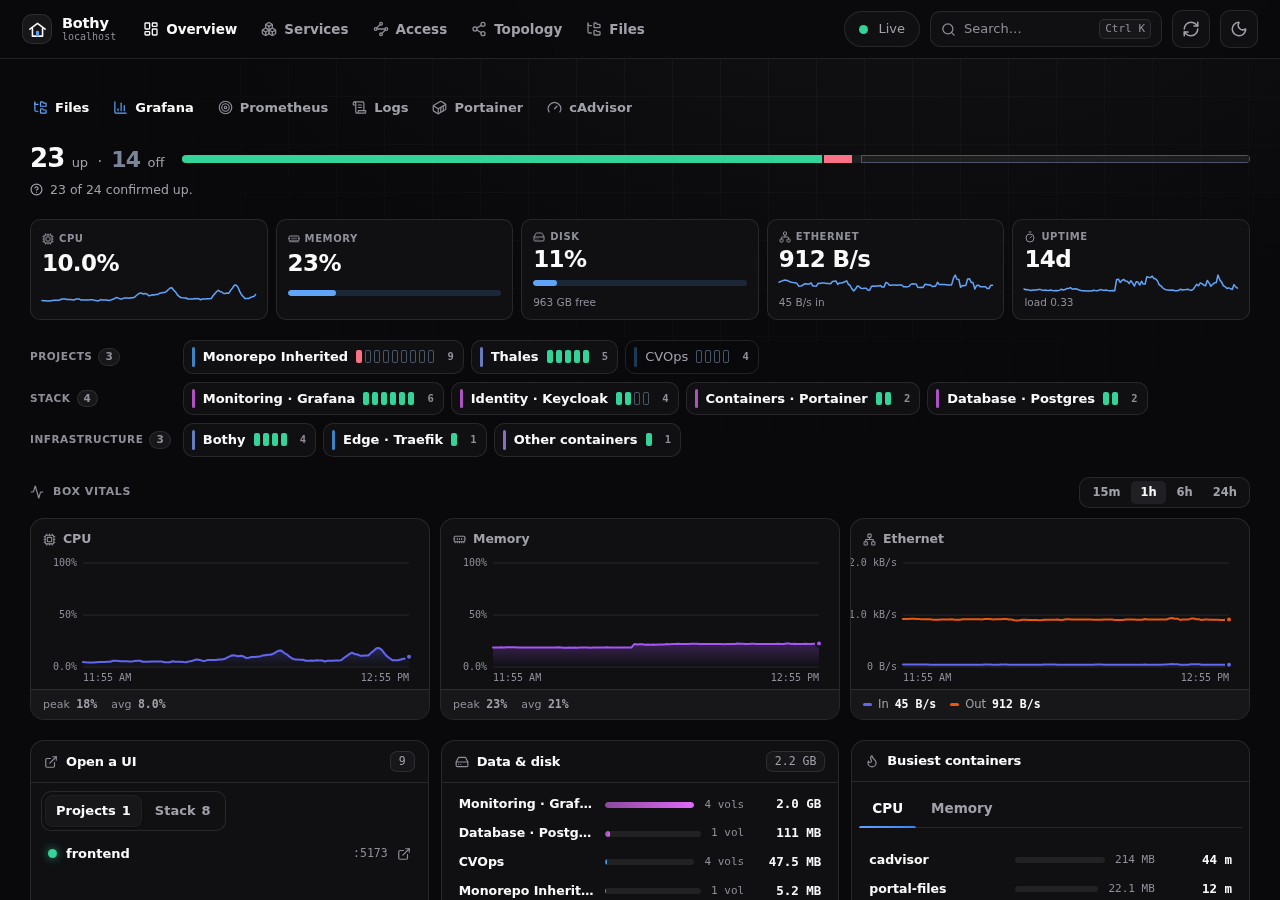
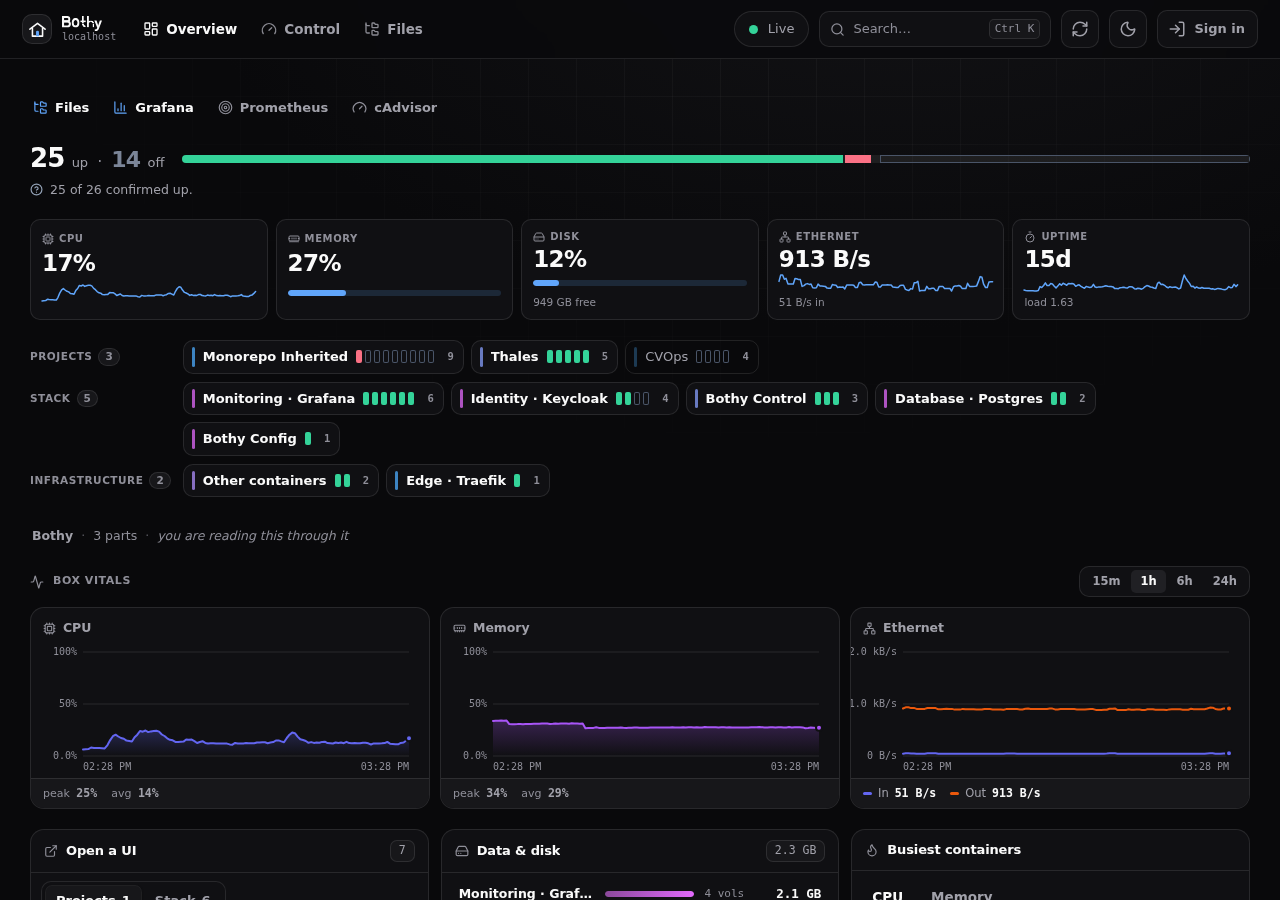
chore: delete redis and kafka, and the backup step that outlived portainer
Redis and Kafka survived yesterday's clear-out by one argument: they were
idle rather than REPLACED, so if either were ever wanted it would be wanted
as itself. That argument is what `git revert` is for. A compose file kept
on disk for a service nobody starts is not a rollback plan - it is a file
every reader has to ask about, and this repo had four of them.

Both were retired 2026-08-12 as measured completely idle (redis DBSIZE 0,
kafka --list zero topics, together ~1,140 MB of the box's 4,678 MB of
container memory). Their volumes and images went then; the files go now.

THE BACKUP STEP IS THE PART THAT MATTERED. backup.sh treated a
non-running portainer as a FAIL, and portainer was deleted yesterday - so
`just backup` was going to print "portainer not running - skipped" and
exit 1 every night, for ever, making the timer's own success signal
worthless and the script look broken to anyone who ran it by hand.

THAT IS THE SECOND TIME. The comment directly above the removed block
records the identical bug with redis in 2026-08-12's clear-out, and this
repo shipped it again six days later. Recorded in place rather than
quietly fixed, because the lesson is not "portainer" - it is that deleting
a service means deleting its backup step IN THE SAME CHANGE, or the
nightly report starts lying the following morning.

Verified: `just backup` now exits 0 and reports postgres, grafana and env
with no failures. It was exiting 1 before this.
[…]

diff --git a/apps/portal-next/web/src/index.css b/apps/portal-next/web/src/index.css
@@ -600,6 +600,32 @@ a.card:hover { transform: translateY(-3px); border-color: var(--line-strong);
 .brand-door { fill: var(--accent); }
 .brand-text { display: flex; flex-direction: column; line-height: 1.1; min-width: 0; }
 .brand-text b { font-size: 14.5px; font-weight: 700; letter-spacing: -0.015em; }
+/* The wordmark, painted as a MASK rather than embedded as markup or an <img>.
+   Three reasons, and the middle one is the trap:
+
+     · A MASK takes its colour from `background`, so `currentColor` here means
+       the wordmark follows the theme the way the type it replaced did. There
+       are seven themes; a two-tone logo fixed to one of them is unreadable in
+       the other six.
+     · AN <img> WOULD NOT WORK. An SVG loaded through <img> is an isolated
+       document with no parent to inherit from, so `currentColor` inside it
+       resolves to black and the mark goes theme-blind. This cost a render cycle
+       to discover - the fix looked like it had failed when it had not.
+     · INLINING the markup would put 13 KB of path data in the JS bundle on
+       every page. As a mask it is one cached request, 3.6 KB gzipped, and it
+       does not grow the bundle at all.
+
+   The size is the measured aspect ratio, 2.666:1 (getBBox in a real browser,
+   not guessed), at the cap height of the 14.5px type it replaces. */
+.brand-wordmark {
+  display: block;
+  width: 40px;
+  height: 15px;
+  font-size: 0;              /* the glyphs are replaced; the text stays for a11y */
+  background: currentColor;
+  -webkit-mask: url(/wordmark.svg) no-repeat left center / contain;
+  mask: url(/wordmark.svg) no-repeat left center / contain;
+}
 .brand-text small { color: var(--fg-subtle); font-family: var(--mono); font-size: 10px;
   max-width: 15ch; overflow: hidden; text-overflow: ellipsis; white-space: nowrap; }
 

diff --git a/apps/portal-next/web/src/components/Brand.tsx b/apps/portal-next/web/src/components/Brand.tsx
@@ -55,7 +55,12 @@ export function Brand() {
     <>
       <span className="brand-mark"><BothyMark size={19} /></span>
       <span className="brand-text">
-        <b>Bothy</b>
+        {/* The word is still IN THE DOM. The wordmark is painted by a CSS mask
+            on this element, so the glyphs are hidden visually (font-size: 0) but
+            the text stays for a screen reader, for find-in-page, and for the
+            moment the .svg 404s after a bad deploy - which is the difference
+            between a nameless page and a broken one. */}
+        <b className="brand-wordmark">Bothy</b>
         <small title={where}>{where}</small>
       </span>
     </>

diff --git a/apps/bothy-config/checks/api.py b/apps/bothy-config/checks/api.py
@@ -55,9 +55,12 @@ os.makedirs(TRASH)
 
 # The real compose files, copied. Only the ones carrying a patchable label plus
 # one that must stay unreachable.
+# data/kafka/compose.yml was in this list until 2026-08-18 as "one that must
+# stay unreachable"; it was deleted with the rest of the retired stacks.
+# edge/dynamic/portal-files.yml plays that role - a real repo file with no
+# patchable label - so the case is still covered.
 for rel in ("edge/compose.yml", "auth/compose.yml", "monitoring/compose.yml",
-            "data/kafka/compose.yml", "edge/dynamic/portal-files.yml",
-            "README.md"):
+            "edge/dynamic/portal-files.yml", "README.md"):
     src = os.path.join(REPO, rel)
     if not os.path.exists(src):
         continue

diff --git a/docs/ARCHITECTURE.md b/docs/ARCHITECTURE.md
@@ -193,10 +193,8 @@ flowchart TB
     subgraph s_devnet["devnet - around two dozen containers"]
         OAUTH["oauth2-proxy"]
         OBS["monitoring - grafana, prometheus, loki,<br/>promtail, cadvisor, node-exporter"]
-        MGMT["mgmt - portainer, dozzle"]
         APPSG["apps - portal-next, portal-files, portal-socket-proxy"]
-        KUI["kafka-ui"]
-        DATAG["data - postgres, redis, kafka<br/>plus exporters - not routed"]
+        DATAG["data - postgres plus its exporter - not routed"]
         PROJ["project containers<br/>e.g. cvops-nginx, cvops-garage"]
     end
 
@@ -204,9 +202,7 @@ flowchart TB
 
     TRAEFIK --> OAUTH
     TRAEFIK --> OBS
-    TRAEFIK --> MGMT
     TRAEFIK --> APPSG
-    TRAEFIK --> KUI
     TRAEFIK --> PROJ
     TRAEFIK -->|"the only path to the proxy"| PROXY
     PROXY -->|"mounted read-only"| SOCKET
@@ -330,14 +326,6 @@ flowchart TB
 
     subgraph s_data["data/ - dev data services"]
         PG["postgres 17 + postgres-exporter"]
-        RD["redis 7 + redis-exporter"]
-        KFK["kafka 4.3 single-node KRaft + kafka-exporter"]
-        KUI["kafka-ui"]
-    end
-
-    subgraph s_mgmt["mgmt/ - container management"]
-        PORTAINER["portainer - read-write socket"]
-        DOZZLE["dozzle - read-only socket, live logs"]
     end
 
     subgraph s_apps["apps/ - what the box itself serves"]
@@ -370,10 +358,7 @@ numbers below are repeated here only so this table is readable on its own.
 | `auth/` | `auth` | `keycloak` `oauth2-proxy` | Keycloak `:8090`; oauth2-proxy only via `/oauth2/` on `:80` | n/a - it *is* the identity layer, and it guards nothing yet |
 | `monitoring/` | `monitoring` | `prometheus` `grafana` `loki` `promtail` `cadvisor` `node-exporter` | `:9090` `:3000` `:3100` - `:8082` `:9100` for the exporters | Grafana and Prometheus use the shared `DEV_LOGIN_*` credential. Prometheus runs `--web.enable-lifecycle`, so an unauthenticated `POST /-/quit` would stop it - its login is the only thing preventing that |
 | `data/postgres` | `postgres` | `postgres` `postgres-exporter` | `127.0.0.1:5432` | Postgres' own |
-| `data/redis` | `redis` | `redis` `redis-exporter` | `127.0.0.1:6379` | **none - no `requirepass` at all.** The loopback bind is the whole control |
-| `data/kafka` | `kafka` | `kafka` `kafka-ui` `kafka-exporter` | Kafka `127.0.0.1:9092`; Kafka-UI `:8081` | Kafka-UI uses `DEV_LOGIN_*` - it runs with `DYNAMIC_CONFIG_ENABLED` and could otherwise mutate topic config |
-| `mgmt/` | `mgmt` | `portainer` `dozzle` | `:9000` `:8080` | both `DEV_LOGIN_*`. Portainer mounts the socket **read-write** and its UI exposes container `Env` and `exec` |
-| `apps/portal` | `portal` | `portal` (retired nginx, `traefik.enable=false`), `portal-socket-proxy` | none - socketnet only | n/a |
+| `apps/bothy` | `bothy` | `portal-socket-proxy` (the read-only Docker socket the portal's data plane goes through) | none - socketnet only | n/a |
 | `apps/portal-next` | `portal-next` | `portal-next` | the `:80` catch-all | **none** |
 | `apps/portal-files` | `bothy` | `portal-files` | none - filesnet only | `viewer` to read, `editor` to write, enforced at the edge |
 | `host/` | - | none | - | - |
@@ -392,8 +377,9 @@ Notes on `apps/`:
   in the portal (`/#/files`) backed by `apps/portal-files`, and it reads the real
   file from a bind mount rather than a mirror of it - so there is no sync lag, no
   second copy to keep out of git, and the same surface can search, render and
-  edit. The retired `apps/wiki/compose.yml` is still on disk, but Wiki.js is not
-  part of the running architecture.
+  edit. Wiki.js was retired, and on 2026-08-18 `apps/wiki/` and its `wiki`
+  database were deleted outright - the content it held was the last argument for
+  keeping either, and it had already been superseded by the files themselves.
 
 ### Observability, and why it covers everything for free
 
@@ -714,8 +700,6 @@ flowchart LR
 | Volume | Owner | Holds | In the backup |
 |---|---|---|---|
 | `postgres_postgres_data` | `data/postgres` | The shared dev database | yes - logical dump |
-| `redis_redis_data` | `data/redis` | AOF-enabled Redis data | yes - RDB snapshot |
-| `kafka_kafka_data` | `data/kafka` | KRaft log dirs | no |
 | `monitoring_prometheus_data` | `monitoring` | TSDB, 15-day retention | no |
 | `monitoring_grafana_data` | `monitoring` | `grafana.db` - users, dashboards, alert state | yes |
 | `monitoring_loki_data` | `monitoring` | Log chunks and index | no |

diff --git a/README.md b/README.md
@@ -23,7 +23,7 @@ by reading a list somebody remembered to update.
 ![React 19](https://img.shields.io/badge/React%2019-%2B%20Vite-61DAFB?logo=react&logoColor=000)
 ![WSL2](https://img.shields.io/badge/WSL2-Ubuntu%2024.04-E95420?logo=ubuntu&logoColor=white)
 
-![The Bothy Overview: 23 up / 14 off across a status bar, then one card per system - Monitoring · Grafana, Identity · Keycloak, Containers · Portainer, Database · Postgres - above live CPU, memory and network charts.](docs/assets/overview.png)
+![The Bothy Overview: 25 up / 14 off across a status bar, then one card per system - Monitoring · Grafana, Identity · Keycloak, Bothy Control, Database · Postgres, Bothy Config - above live CPU, memory and network charts.](docs/assets/overview.png)
 
 _Every card on that page was discovered by asking Docker. Nothing about it is a list._
 
@@ -201,7 +201,6 @@ Then open **`http://<this-node's-tailnet-IP>/`** - `just urls` prints every addr
 | `auth/` | **Keycloak 26.7.1 + oauth2-proxy** - the local identity layer. Keycloak publishes `:8090` and stores its data in the shared Postgres under its own `keycloak` role; oauth2-proxy runs `--provider=oidc` against the `devbox` realm and publishes no port. Enforces on the editor tier; see [Single sign-on](#single-sign-on). |
 | `monitoring/` | Prometheus, Grafana, Loki + Promtail, cAdvisor, node-exporter. `provisioning/` wires datasources, dashboards and email alert rules; `dashboards/` holds six provisioned dashboards; `rules/` is for Prometheus rules. |
 | `data/postgres/` | Postgres 17 plus `postgres-exporter`. Binds **loopback only**. In active use - the dev database and Keycloak both live here. |
-| `data/redis/`, `data/kafka/` | **Retired** - both measured completely idle (zero keys, zero topics) and removed. The compose files are kept so `just down` and `just nuke` still clean up an older deployment; `just up-data` no longer starts them, and their volumes are gone. |
 | `apps/portal-next/` | The live portal on `:80` - React 19 + Vite + TypeScript, built by a multi-stage image and served static by nginx. Owns `portal-next-fallback`, the catch-all. Pages: Overview, Services, Ports, Routes, Topology (a lazy-loaded react-three-fiber 3D rack view). |
 | `apps/bothy/` | The one compose project over Bothy's three tiers, via `include:`. Also **owns `portal-socket-proxy`** - the read-only Docker socket the portal's `/-/api/docker` data plane goes through. It moved here on 2026-08-18 when `apps/portal/`, which existed only to hold it, was deleted. |
 | `apps/portal-files/` | The editor tier behind Bothy Files - the read/write file API over the stacks repo, `~/claude-notes` and `~/projects`, with full-text search. No published port; reached only through the edge. |

diff --git a/SECURITY.md b/SECURITY.md
@@ -293,7 +293,7 @@ the disk panel.
 
 ### 4. Databases publish on loopback only
 
-`data/postgres`, `data/redis` and `data/kafka` bind their host ports to
+`data/postgres` binds its host port to
 `127.0.0.1` explicitly:
 
 ```yaml
